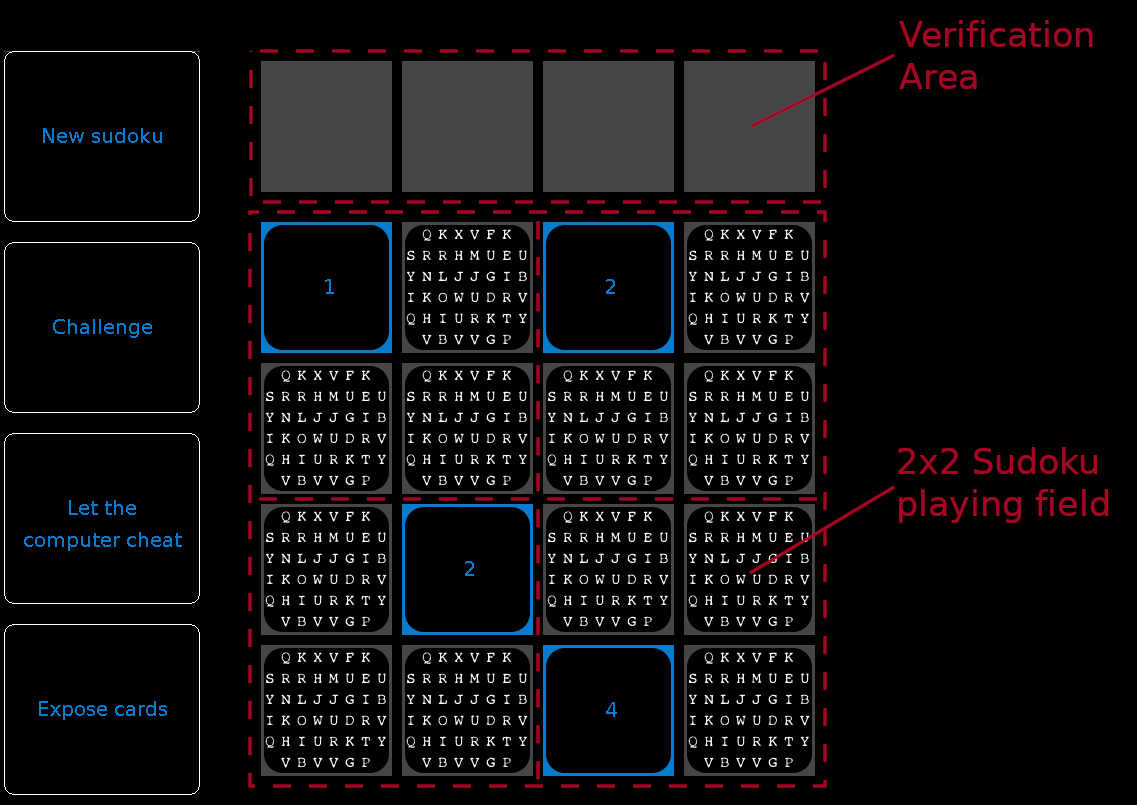
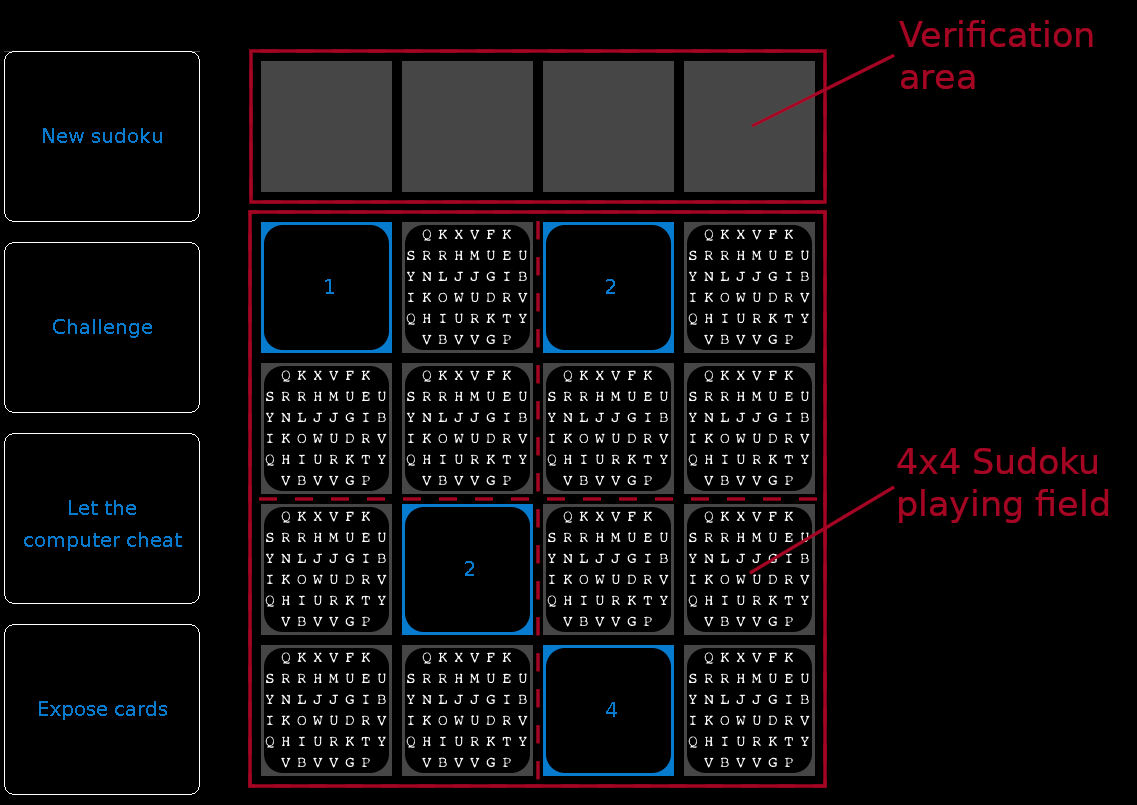
Update help with new Screenshot and fix screenshot annotations
Also replace some written text with MathJax

diff --git a/org.jcryptool.games.zudoku/nl/en/help/content/index.html b/org.jcryptool.games.zudoku/nl/en/help/content/index.html
@@ -24,22 +24,18 @@
 	 	<a href="http://en.wikipedia.org/wiki/Zero-knowledge_proof" target="_blank">zero-knowledge protocol</a>.
 	</p>
 
-		<p align="center"> <img src="game_annotated.png" width="85%" style="min-width: 500px"/></p>
+	<p align="center"> <img src="game_annotated.png" width="60%" style="min-width: 500px"/></p>
 
-
-	
 	<p><br></p>
 	<h2>How to play</h2>
 	<p>
-	When starting a new game, a new 4x4 Sudoku riddle [consisting of four blocks (subgrids) of size 2x2, which make up 16 boxes] is created. The four given numbers are shown at once &ndash; one per 2x2 subgrid. The computer then covertly solves this Sudoku game.
+	When starting a new game, a new \(4 \times 4\) Sudoku riddle [consisting of four blocks (subgrids) of size \(2 \times 2\), which make up 16 boxes] is created. The four given numbers are shown at once &ndash; one per \(2 \times 2\) subgrid. The computer then covertly solves this Sudoku game.
 	</p>
 	<p>
 	We assume we play Sudoku with playing cards instead of the usual pen and paper.
 	</p>
 
-    xxxxxx TODO Altenhuber Add another screenshot here xxxxxxxxxxx
-	
-
+	<p align="center"> <img src="playing_field_challenge.png" width="40%" style="min-width: 250px"/></p>
 
 	<p>
 		1) If you want new numbers (i.e. a new Sudoku puzzle), click on the left button <b>New sudoku</b>.
@@ -98,7 +94,7 @@
 	</ul> 
 
 
-	<h3 id="persona">Playing with cards in person</h3>
+	<h3>Playing with cards in person</h3>
 	<p>
 		The idea of this game can be applied even better in real life.
 	</p>

diff --git a/org.jcryptool.games.zudoku/nl/de/help/content/index.html b/org.jcryptool.games.zudoku/nl/de/help/content/index.html
@@ -26,22 +26,20 @@
 	</p>
 
 
-	<p align="center"> <img src="game_annotated.png" width="85%" style="min-width: 500px"/></p>
+	<p align="center"> <img src="game_annotated.png" width="60%" style="min-width: 500px"/></p>
 
 	
 	
 	<p><br></p>
 	<h2>Spielanleitung</h2>
 	<p>
-	Startet man das Spiel neu, wird ein neues 4x4-Sudoku-Rätsel (bestehend aus vier Blöcken der Größe 2x2, was zusammen 16 Kästchen ergibt) erstellt. Vier Zahlen sind  gegeben und werden auch gleich angezeigt &ndash; eine pro 2x2-Block. Der Computer löst das Sudoku dann verdeckt.
+	Startet man das Spiel neu, wird ein neues \(4 \times 4\)-Sudoku-Rätsel (bestehend aus vier Blöcken der Größe \(2 \times 2\), was zusammen 16 Kästchen ergibt) erstellt. Vier Zahlen sind  gegeben und werden auch gleich angezeigt &ndash; eine pro \(2 \times 2\)-Block. Der Computer löst das Sudoku dann verdeckt.
 	</p>
 	<p>
 	Wir denken uns, wir spielen das Sudoku mit Spielkarten statt wie üblich mit Stift und Papier.
 	</p>
 
-    xxxxxx TODO Altenhuber Add another screenshot here xxxxxxxxxxx
-
-
+	<p align="center"> <img src="playing_field_challenge.png" width="40%" style="min-width: 250px"/></p>
 
 	<p>
 		1) Falls du neue Zahlen (also ein neues Sudoku-Rätsel) möchtest, klicke auf den linken Button <b>Neues Sudoku</b>.
@@ -100,7 +98,7 @@
 	</p>
 
 
-	<h3 id="persona">Zudo-ku mit echten Karten</h3>
+	<h3>Zudo-ku mit echten Karten</h3>
 	<p>
 		Die Idee hinter diesem Spiel kann im echten Leben noch besser demonstriert werden.
 	</p>
